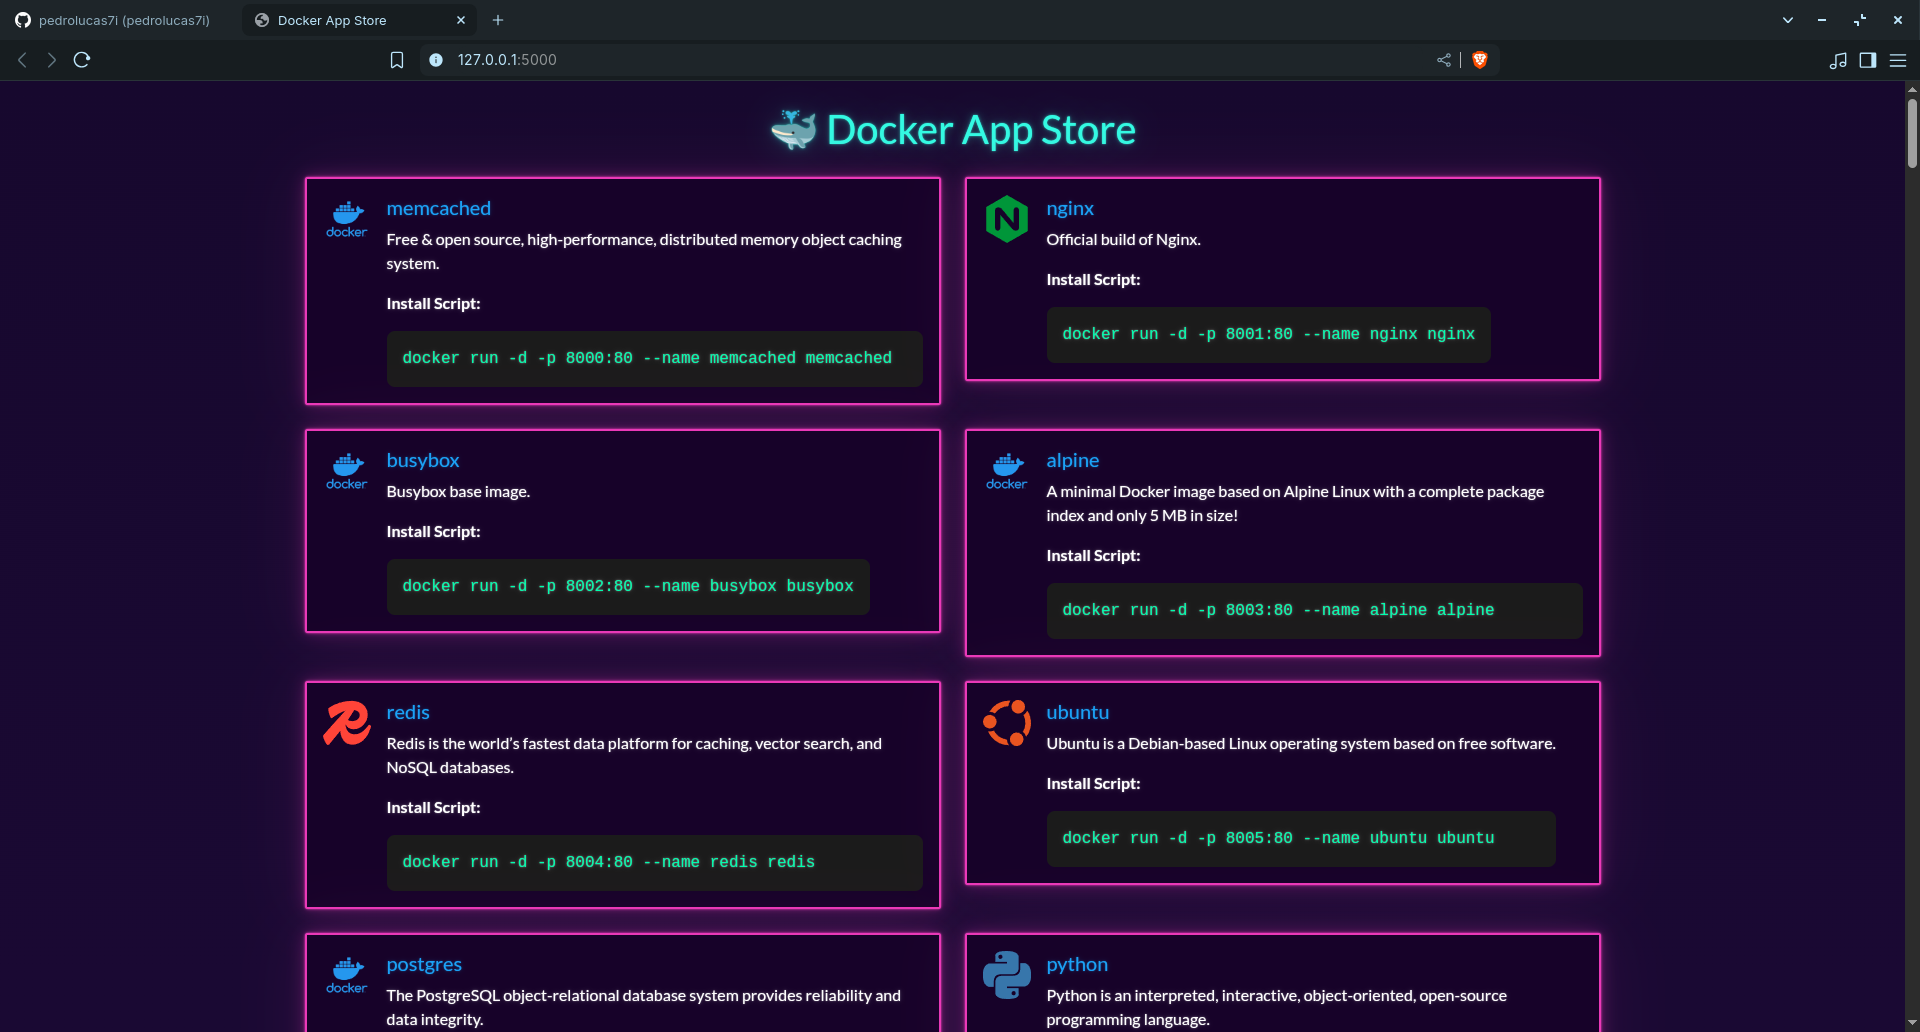
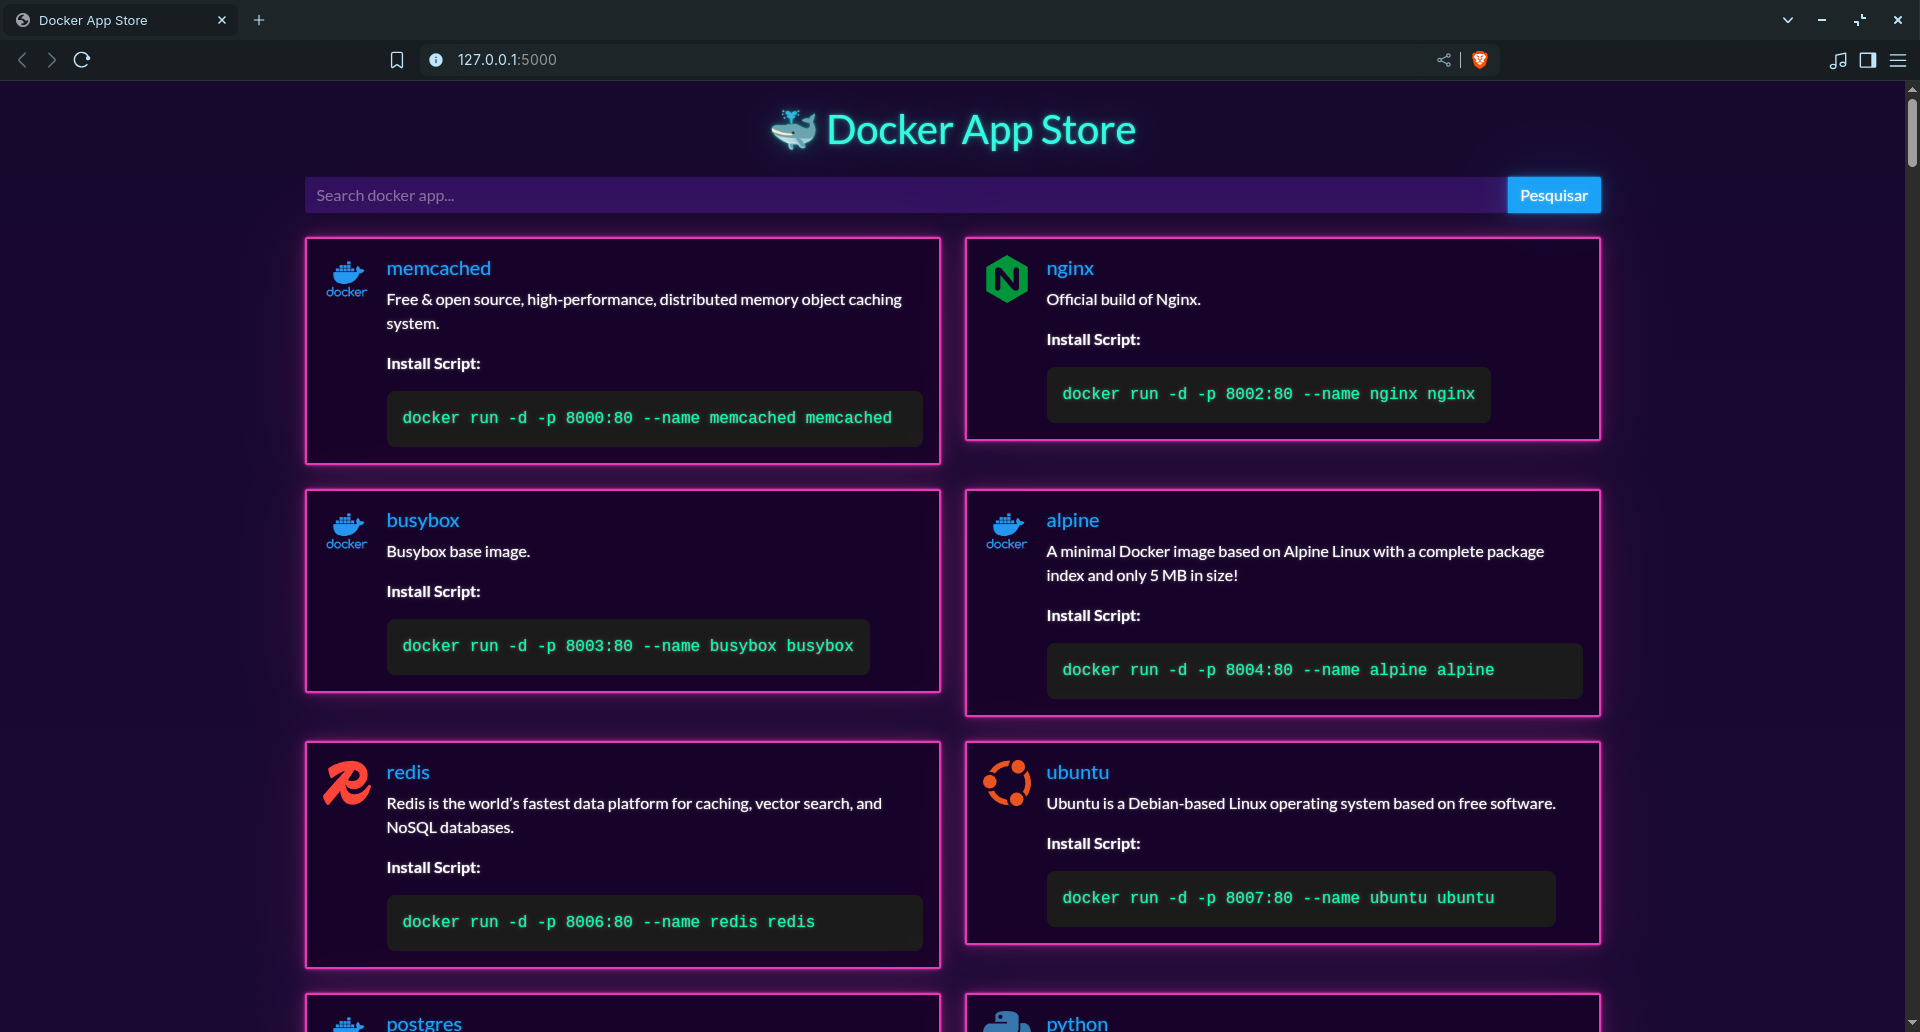
Added support to installation of docker apps and update of README.md

Changed region(s): [[0.1562, 0.155, 0.8438, 1.0], [0.0, 0.0, 0.0938, 0.031], [0.125, 0.0, 0.1875, 0.031]]

diff --git a/templates/details.html b/templates/details.html
@@ -30,11 +30,22 @@
         .feedback.show {
             opacity: 1;
         }
+        .url-link {
+            font-size: 1rem;
+            margin-top: 1rem;
+            display: block;
+            color: #007bff;
+            text-decoration: none;
+        }
+        .url-link:hover {
+            text-decoration: underline;
+        }
     </style>
 </head>
 <body class="container py-4">
-    <a href="{{ url_for('index') }}" class="btn btn-secondary mb-3">← Voltar</a>
-    
+    <!-- Back button to return to the main page -->
+    <a href="{{ url_for('index') }}" class="btn btn-secondary mb-3">← Back</a>
+
     <div class="card bg-dark text-light">
         <div class="card-body d-flex align-items-start">
             {% if app.icon_url %}
@@ -43,16 +54,31 @@
             {% endif %}
             <div>
                 <h2>{{ app.name }}</h2>
-                <p>{{ app.description or 'Descrição não disponível.' }}</p>
-                <h5>Script de Instalação do Docker</h5>
+                <p>{{ app.description or 'Description not available.' }}</p>
+
+                <h5>Docker Installation Script</h5>
                 <div id="install-script" class="install-script mb-3">{{ install_script }}</div>
-                <button onclick="copiarScript('install-script')" class="btn btn-info" aria-label="Copiar script de instalação">Copiar Script de Instalação</button>
-                <span id="install-feedback" class="feedback">Script copiado!</span>
+
+                <!-- Button to copy the installation script to the clipboard -->
+                <button onclick="copiarScript('install-script')" class="btn btn-info me-2" aria-label="Copy installation script">
+                    Copy Installation Script
+                </button>
+                <!-- Button to trigger the installation -->
+                <button id="install-button" class="btn btn-success me-2">Install Application</button>
+                <!-- Feedback after copying the script -->
+                <span id="install-script-feedback" class="feedback">Script copied!</span>
+                <span id="install-result" class="feedback"></span>
+                <hr>
+                <!-- Added a URL link to view the application page -->
+                <a href='http://localhost:{{ port }}' class="url-link" target="_blank">
+                    View the Docker Web App after Installation
+                </a>
             </div>
         </div>
     </div>
 
     <script>
+        // Function to copy the installation script to clipboard
         function copiarScript(scriptId) {
             const texto = document.getElementById(scriptId).innerText;
             navigator.clipboard.writeText(texto).then(() => {
@@ -63,6 +89,46 @@
                 }, 2000);
             });
         }
+
+        // Event listener for the "Install Application" button
+        document.getElementById("install-button").addEventListener("click", function () {
+            const installButton = document.getElementById("install-button");
+            const resultSpan = document.getElementById("install-result");
+            
+            // Show "Installing..." while the installation process is running
+            installButton.textContent = "Installing..."; 
+            installButton.disabled = true; // Disable the button during installation
+
+            fetch(`/install/{{ app.name }}`, {
+                method: "POST"
+            })
+            .then(response => response.json())
+            .then(data => {
+                if (data.success) {
+                    resultSpan.textContent = "Application installed successfully!";
+                    resultSpan.style.color = "#28a745"; // Green color for success
+                } else {
+                    resultSpan.textContent = "Error: " + data.error;
+                    resultSpan.style.color = "#dc3545"; // Red color for error
+                }
+                resultSpan.classList.add("show");
+                setTimeout(() => resultSpan.classList.remove("show"), 4000);
+
+                // Restore the button text after completion
+                installButton.textContent = "Install Application";
+                installButton.disabled = false; // Enable the button again
+            })
+            .catch(error => {
+                resultSpan.textContent = "Unexpected error: " + error;
+                resultSpan.style.color = "#dc3545"; // Red color for error
+                resultSpan.classList.add("show");
+                setTimeout(() => resultSpan.classList.remove("show"), 4000);
+
+                // Restore the button text after an error
+                installButton.textContent = "Install Application";
+                installButton.disabled = false; // Enable the button again
+            });
+        });
     </script>
 </body>
 </html>

diff --git a/main.py b/main.py
@@ -3,6 +3,7 @@ import requests
 import threading
 import time
 import socket
+import subprocess
 
 app = Flask(__name__)
 
@@ -38,7 +39,7 @@ def fetch_all_official_apps():
                 # Use keys available in the API response; adjust if necessary.
                 app_name = item.get("name", "unknown")
                 # Some API responses might not include a description.
-                app_description = item.get("description", "No description provided.")
+                app_description = item.get("short_description", "No description provided.")
                 app_data = {
                     "name": app_name,
                     "description": app_description,
@@ -97,6 +98,22 @@ def get_app_port(app_name):
         app_ports[app_name] = generate_unique_port()
     return app_ports[app_name]
 
+# Function to install the app using Docker and subprocess
+def install_app(app_name, app_port):
+    try:
+        command = ["docker", "run", "-d", "-p", f"{app_port}:80", "--name", app_name, app_name]
+        result = subprocess.run(command, capture_output=True, text=True, check=True)
+        return {
+            "success": True,
+            "output": result.stdout.strip()
+        }
+    except subprocess.CalledProcessError as e:
+        return {
+            "success": False,
+            "error": e.stderr.strip()
+        }
+
+
 @app.route('/')
 def index():
     apps = []
@@ -116,7 +133,7 @@ def app_details(app_name):
         if app['name'].lower() == app_name.lower():
             port = get_app_port(app['name'])
             script = generate_install_script(app['name'], port)
-            return render_template('details.html', app=app, install_script=script)
+            return render_template('details.html', app=app, port=port, install_script=script)
     return "App not found!", 404
 
 @app.route('/update_apps')
@@ -126,6 +143,11 @@ def update_apps_route():
         return jsonify({"message": "Update already in progress. Please wait."}), 400
     threading.Thread(target=update_apps_in_background, daemon=True).start()
     return jsonify({"message": "Update started!"}), 202
+
+# Endpoint to fetch apps for dynamic update in the UI
+@app.route('/fetch_new_apps')
+def fetch_new_apps():
+    return jsonify(load_apps())
 
 @app.route('/search', methods=['GET'])
 def search():
@@ -144,10 +166,38 @@ def search():
 
     return render_template('index.html', apps=apps)
 
-# Endpoint to fetch apps for dynamic update in the UI
-@app.route('/fetch_new_apps')
-def fetch_new_apps():
-    return jsonify(load_apps())
+# Route to install a selected Docker app via subprocess
+@app.route('/install/<app_name>', methods=['POST'])
+def install_app_route(app_name):
+    try:
+        # Iterate through the cached apps and check if the app exists
+        for app in load_apps():
+            if app['name'].lower() == app_name.lower():
+                # Get the unique port for the app
+                port = get_app_port(app['name'])
+
+                # Generate the Docker installation command
+                command = ["docker", "run", "-d", "-p", f"{port}:80", "--name", app_name, app_name]
+
+                # Run the command using subprocess to install the app
+                result = subprocess.run(command, capture_output=True, text=True, check=True)
+
+                # If the installation is successful, return the output
+                return jsonify({"success": True, "output": result.stdout.strip()})
+
+        # If the app is not found in the list of apps
+        return jsonify({"success": False, "error": "App not found!"}), 404
+
+    except subprocess.CalledProcessError as e:
+        # Handle errors from the subprocess (Docker command failure)
+        return jsonify({"success": False, "error": e.stderr.strip()})
+
+    except Exception as e:
+        # General exception handling for any other issues
+        return jsonify({"success": False, "error": str(e)})
+
+
+            
 
 if __name__ == '__main__':
     app.run(debug=True)

diff --git a/offline.py b/offline.py
@@ -3,6 +3,7 @@ import json
 import os
 import socket
 import threading
+import subprocess
 
 app = Flask(__name__)
 
@@ -103,6 +104,36 @@ def search():
             })
 
     return render_template('index.html', apps=apps)
+
+# Route to install a selected Docker app via subprocess
+@app.route('/install/<app_name>', methods=['POST'])
+def install_app_route(app_name):
+    try:
+        # Iterate through the cached apps and check if the app exists
+        for app in load_offline_apps():
+            if app['name'].lower() == app_name.lower():
+                # Get the unique port for the app
+                port = get_app_port(app['name'])
+
+                # Generate the Docker installation command
+                command = ["docker", "run", "-d", "-p", f"{port}:80", "--name", app_name, app_name]
+
+                # Run the command using subprocess to install the app
+                result = subprocess.run(command, capture_output=True, text=True, check=True)
+
+                # If the installation is successful, return the output
+                return jsonify({"success": True, "output": result.stdout.strip()})
+
+        # If the app is not found in the list of apps
+        return jsonify({"success": False, "error": "App not found!"}), 404
+
+    except subprocess.CalledProcessError as e:
+        # Handle errors from the subprocess (Docker command failure)
+        return jsonify({"success": False, "error": e.stderr.strip()})
+
+    except Exception as e:
+        # General exception handling for any other issues
+        return jsonify({"success": False, "error": str(e)})
 
 if __name__ == '__main__':
     app.run(debug=True)

diff --git a/README.md b/README.md
@@ -8,12 +8,14 @@ A Flask-based web application that allows users to explore official Docker Hub i
 ## ✨ Features
 
 - View official Docker images with icons and descriptions
-- Generate `docker run` scripts with unique ports
+- Generate `docker run` scripts with unique ports for each app
 - Two modes:
   - **Online Mode**: Fetches live data from Docker Hub API
   - **Offline Mode**: Uses local JSON file for offline availability
 - Lightweight UI using HTML templates
-- Caching and background updating (in online mode)
+- Caching and background updating in online mode to keep the app data up to date
+- Search functionality to easily find apps by name
+- Install Docker apps directly using the provided `docker run` commands
 
 ---
 
@@ -23,9 +25,11 @@ A Flask-based web application that allows users to explore official Docker Hub i
 
 - Python 3.7+
 - `pip3` for installing dependencies
-- Internet connection (for online mode)
+- Internet connection (for online mode and dockers installations)
 
 ### 📦 Install Dependencies
+
+Make sure to install all required dependencies by running:
 
 ```bash
 pip3 install -r requirements.txt
@@ -41,7 +45,7 @@ pip3 install -r requirements.txt
 .
 ├── main.py                 # Online mode using Docker Hub API
 ├── offline.py              # Offline mode using local JSON file
-├── saveDockerinJSON.py     # Script to fetch data from Docker Hub and create dockers.json
+├── saveDockerinJSON.py     # Script to fetch data from Docker Hub and create 
 ├── dockers.json            # Static data file for offline mode
 ├── original.json           # All JSON data fetched from API 
 ├── static
@@ -63,11 +67,13 @@ This version fetches official Docker apps from Docker Hub using their search API
 
 ### 🔍 Run Online Mode
 
+To start the app in online mode, run the following command:
+
 ```bash
 python main.py
 ```
 
-Access in browser at: [http://localhost:5000](http://localhost:5000)
+Access the app in your browser at: [http://localhost:5000](http://localhost:5000)
 
 ---
 
@@ -75,13 +81,17 @@ Access in browser at: [http://localhost:5000](http://localhost:5000)
 
 **File**: `offline.py`
 
-This version loads apps from a static JSON file (`dockers.json`) and provides the same interface without requiring internet access.
+This version loads apps from a static JSON file (`dockers.json`) and provides the same interface without requiring internet access. This mode is perfect for situations where an internet connection is unavailable.
 
 ### 📂 Run Offline Mode
+
+To run the app in offline mode, use:
 
 ```bash
 python offline.py
 ```
+
+Access the app in your browser at: [http://localhost:5000](http://localhost:5000)
 
 ---
 
@@ -90,13 +100,18 @@ python offline.py
 **Folder**: `templates/`
 
 - `index.html`: Lists all available Docker apps with name, icon, description, and install script.
-- `details.html`: Shows additional details and the Docker run command for a selected app.
+- `details.html`: Displays additional details about the selected app and the corresponding `docker run` command to install it.
 
 ---
 
 ## 🖼 Preview
+<br>
 
+### List of APPs
 ![screenshot](static/preview.png)
+
+### Details of APP
+![details screenshoot](static/preview-details.png)
 
 *Docker App Store (main.py/offline.py)*
 
@@ -104,8 +119,7 @@ python offline.py
 
 ## 🛠 Future Improvements
 
-- Add search and category filters
-- Add Dockerfiles for easy containerization
+- Add Dockerfile generation for users to easily containerize their applications.
 
 ---
 
